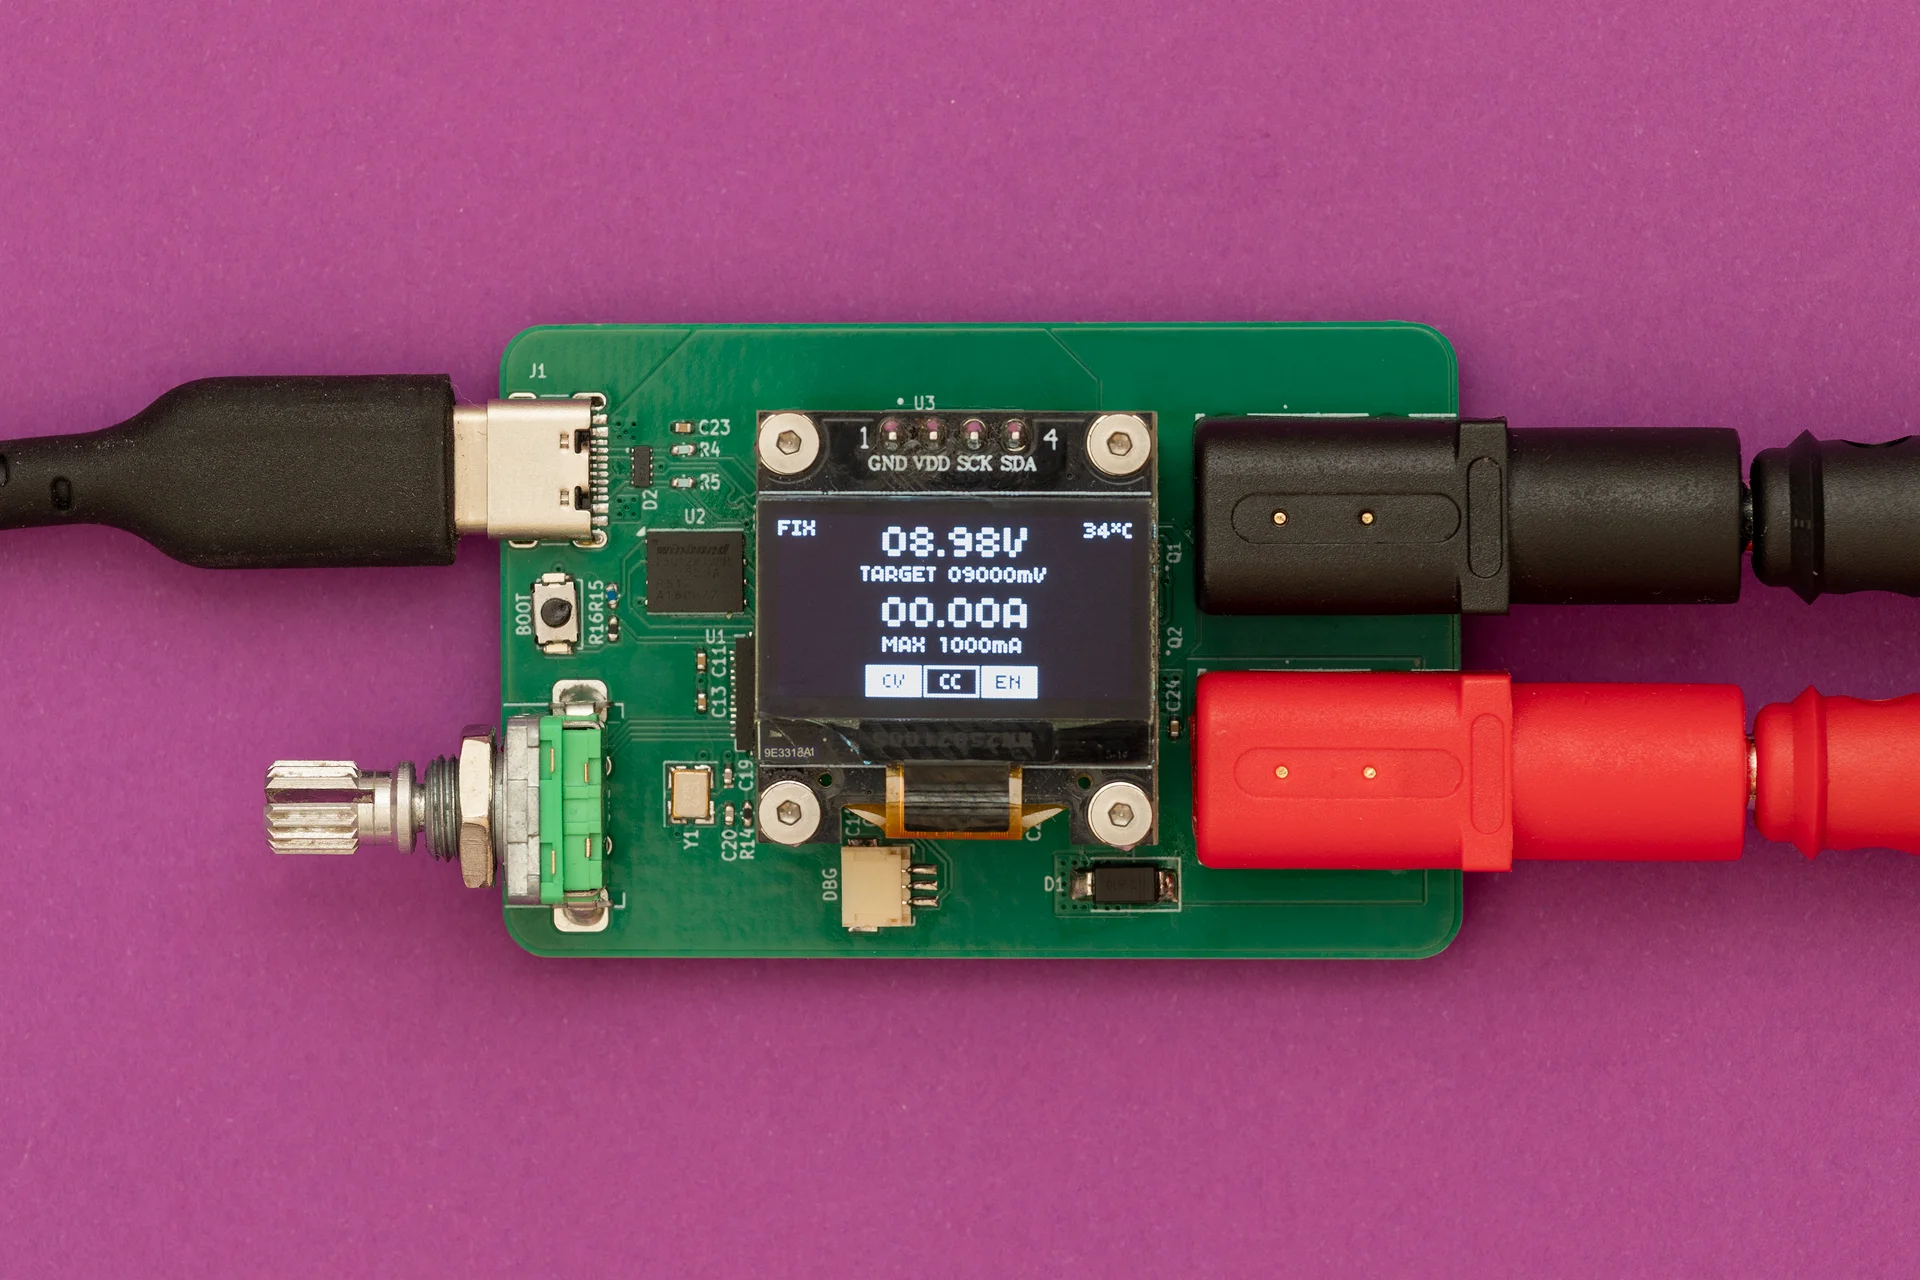
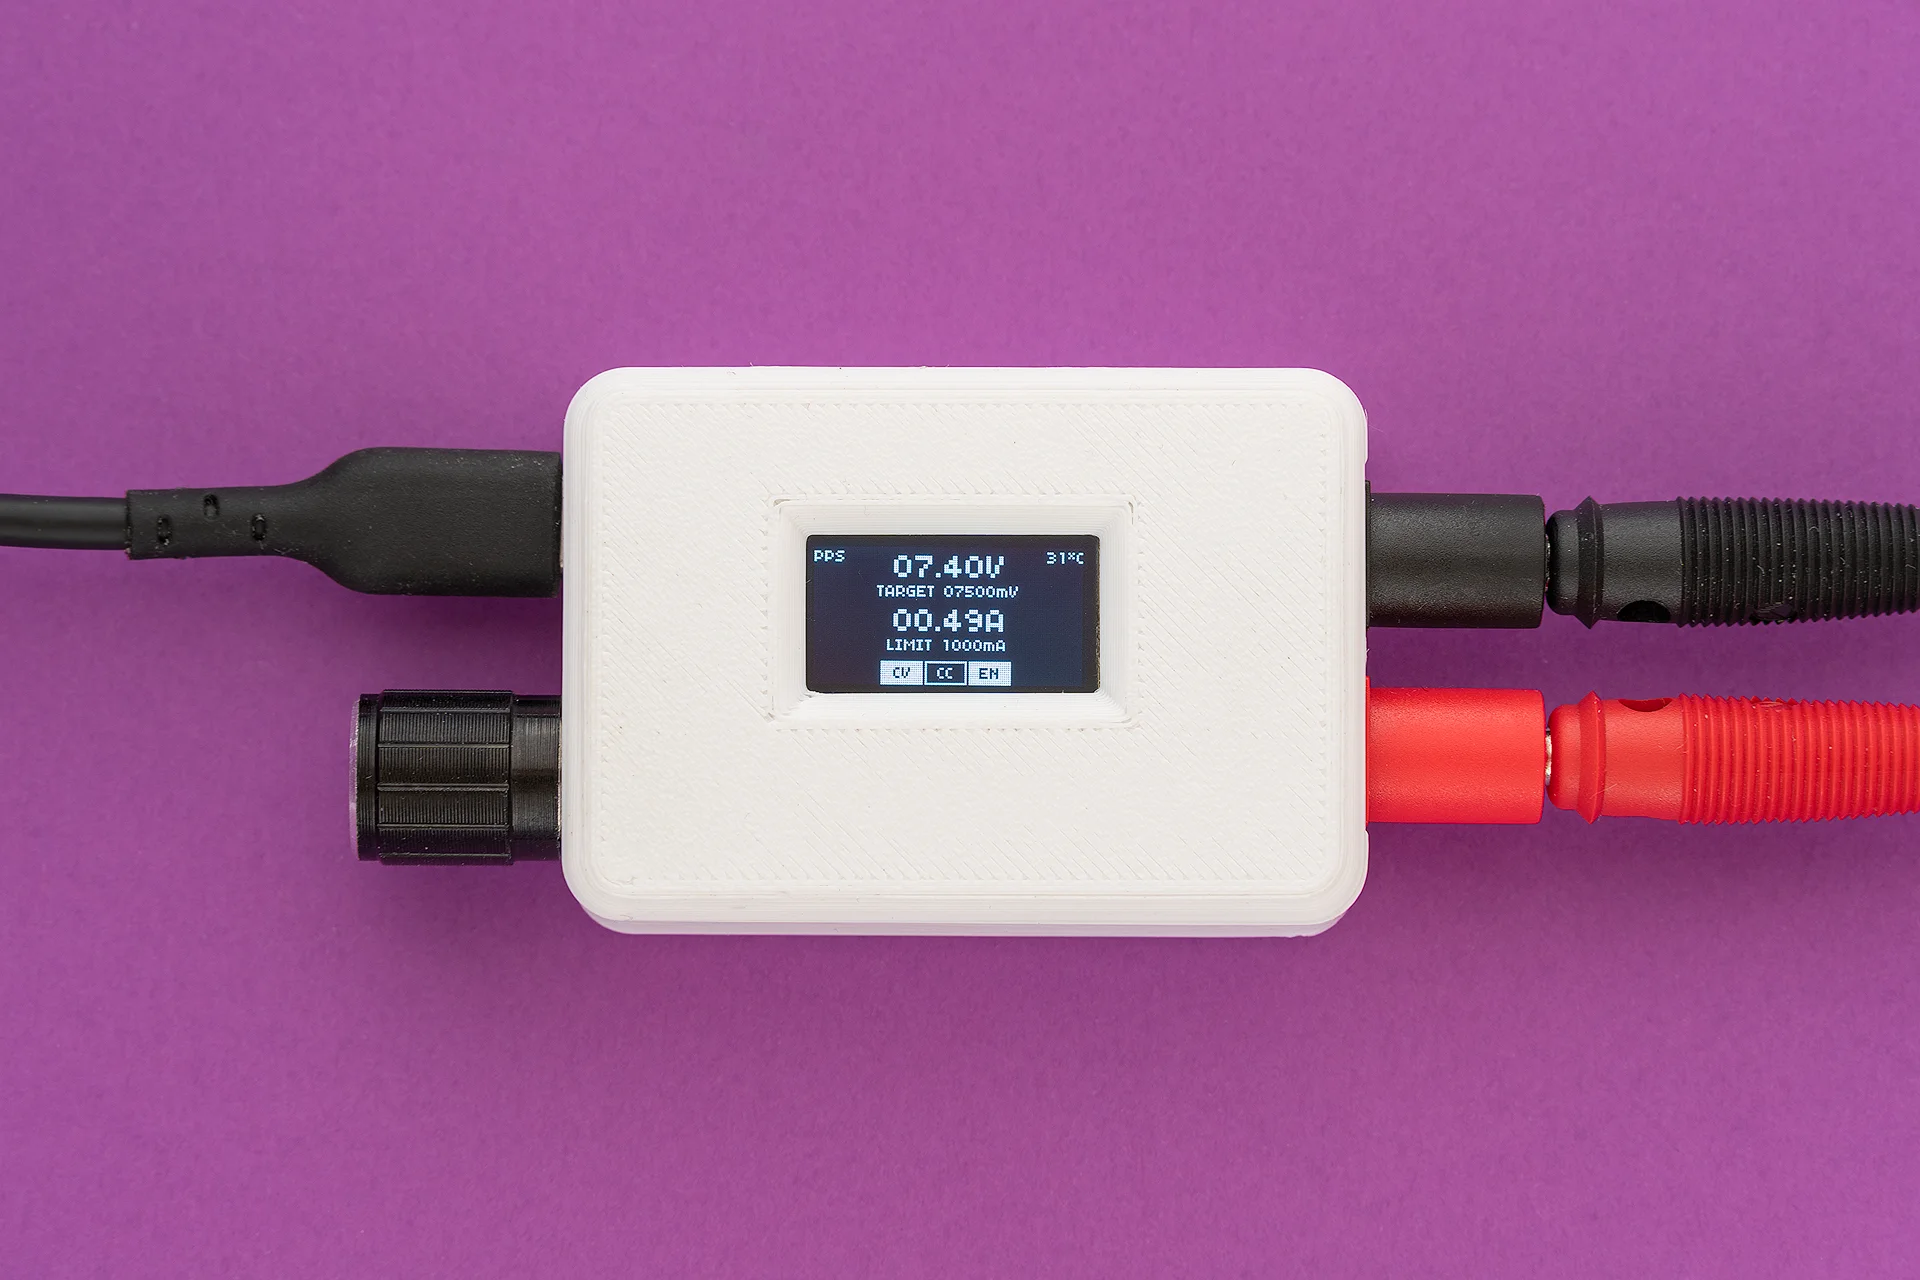
Update README with new features and add new images
- Update key features section with a table describing features based on
  selected PD sink controller IC (AP33772 or AP33772s).
- Add instructions for configuring, building and flashing the project.
- Extend README with a new section: Case

diff --git a/README.md b/README.md
@@ -4,28 +4,43 @@ TinyPPS is a pocket-sized programmable power supply built on the USB Power Deliv
 
 ![TinyPPS](doc/tinyPPS.webp)
 
-Key features:
-- Support for fixed PDO and PPS profiles
-- Output voltage range: 3.3V to 28V
-- Fine-grained voltage adjustment via PPS negotiation (100mV steps)
-- Output current up to 5A *(charger and cable dependent)*
-- Programmable current limiting (250mA steps)
-- User-switchable output
+## Key features
+
+TinyPPS takes advantage of pin-compatible USB PD sink ICs (AP33772 and AP33772S), providing two feature sets within a single firmware, depending on the selected IC:
+
+| Feature | With AP33772s | With AP33772 |
+| - | - | - |
+| Supported PDO profiles | fixed PDO, PPS | fixed PDO, PPS |
+| Output voltage range | 3.3 - 21V | 3.3 - 21V |
+| Max output current* | 5A | 5A |
+| PPS voltage step size | 100mV/Step | 20mV/Step |
+| Programmable current limit | 250mA/Step | 50mA/Step |
+| User-switchable output | ✅ | ✅ |
+| Over Voltage Protection (OVP) | ✅ → Hard Reset and Auto Restart | ✅ → Auto Restart |
+| Over Current Protection (OCP) | ✅ → Output Disable | ✅ → Auto Restart |
+| Under Voltage Protection (UVP) | ✅ → Output Disable | ❌ |
+| Over temperature protection (OTP)** | ✅ → Output Disable | ✅ → Output Disable |
+| Short-Circuit Protection (SCP) | ✅ → Output Disable | ✅ → Output Disable |
+
+**charger and cable dependent*
+
+***OTP is set to 85°C*
 
 Huge thank you to **[PCBWay](https://www.pcbway.com)** for sponsoring this project!
+![PCBWay logo](doc/pcbway.png)
 
 ## Firmware
 
-The firmware is written in C++ using the Raspberry Pi Pico SDK.
+The firmware is written in C++ using the Raspberry Pi Pico SDK. No external dependencies are used.
 
-Configure the build using CMake:
+Configuring the build using CMake:
 
 ```bash
 cd firmware
 cmake -G Ninja -S . -B build
 ```
 
-Build the firmware:
+Building the firmware:
 
 ```bash
 cmake --build build
@@ -42,14 +57,26 @@ There are two options to flash RP2040:
 
 ## Hardware
 
-Schematic and PCB are designed in KiCAD.
+Schematic and PCB are designed in KiCAD 10.
 
 Key components:
 
-- The schematic is based on the **RP2040** and **AP33772S** reference designs.
+- The device is based on the **RP2040** microcontroller and **AP33772(S)** USB PD sink controller.
 - A **0.96 in 128×64 SSD1306 OLED** is added to display the UI.
 - A **EC11** rotary encoder is added for user input.
 - **INA226** is used for measuring current and voltage. *While AP33772s provides these features, INA226 gives more precise measurements.*
+- **LM73100** replaces the back-to-back NMOS switch and provides short circuit protection.
+- **74LVC1G08GW,125** single 2-input AND gate is used for output enable.
+
+## Case
+
+3D model is made with Autodesk Fusion 360.
+
+The case is 3D printed with ABS so it can handle higher tempeatures.
+
+![TinyPPS exploded view](doc/tinypps-components.webp)
+
+![TinyPPS open case](doc/tinypps-open-case.webp)
 
 ## Resources
 
@@ -57,4 +84,3 @@ Key components:
 2. [AP33772S I2C USB PD Sink Controller EVB User Guide](https://www.diodes.com/assets/Evaluation-Boards/AP33772S-Sink-Controller-EVB-User-Guide.pdf)
 3. [SSD1306](https://cdn-shop.adafruit.com/datasheets/SSD1306.pdf)
 4. [INA226](https://www.ti.com/lit/ds/symlink/ina226.pdf?ts=1770072845830)
-5. [RobTillaart/INA226](https://github.com/RobTillaart/INA226)